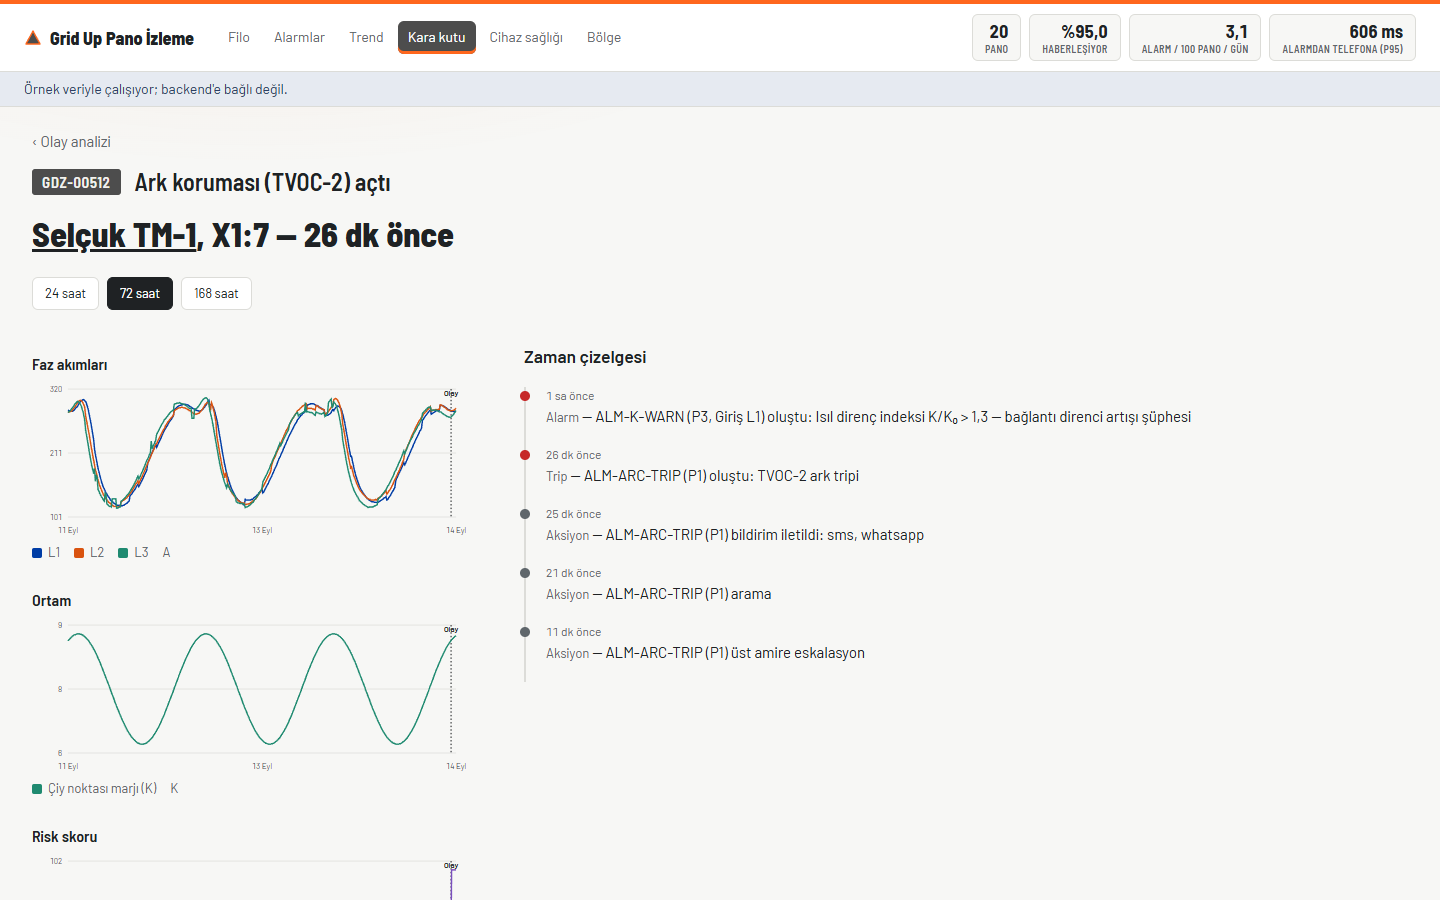
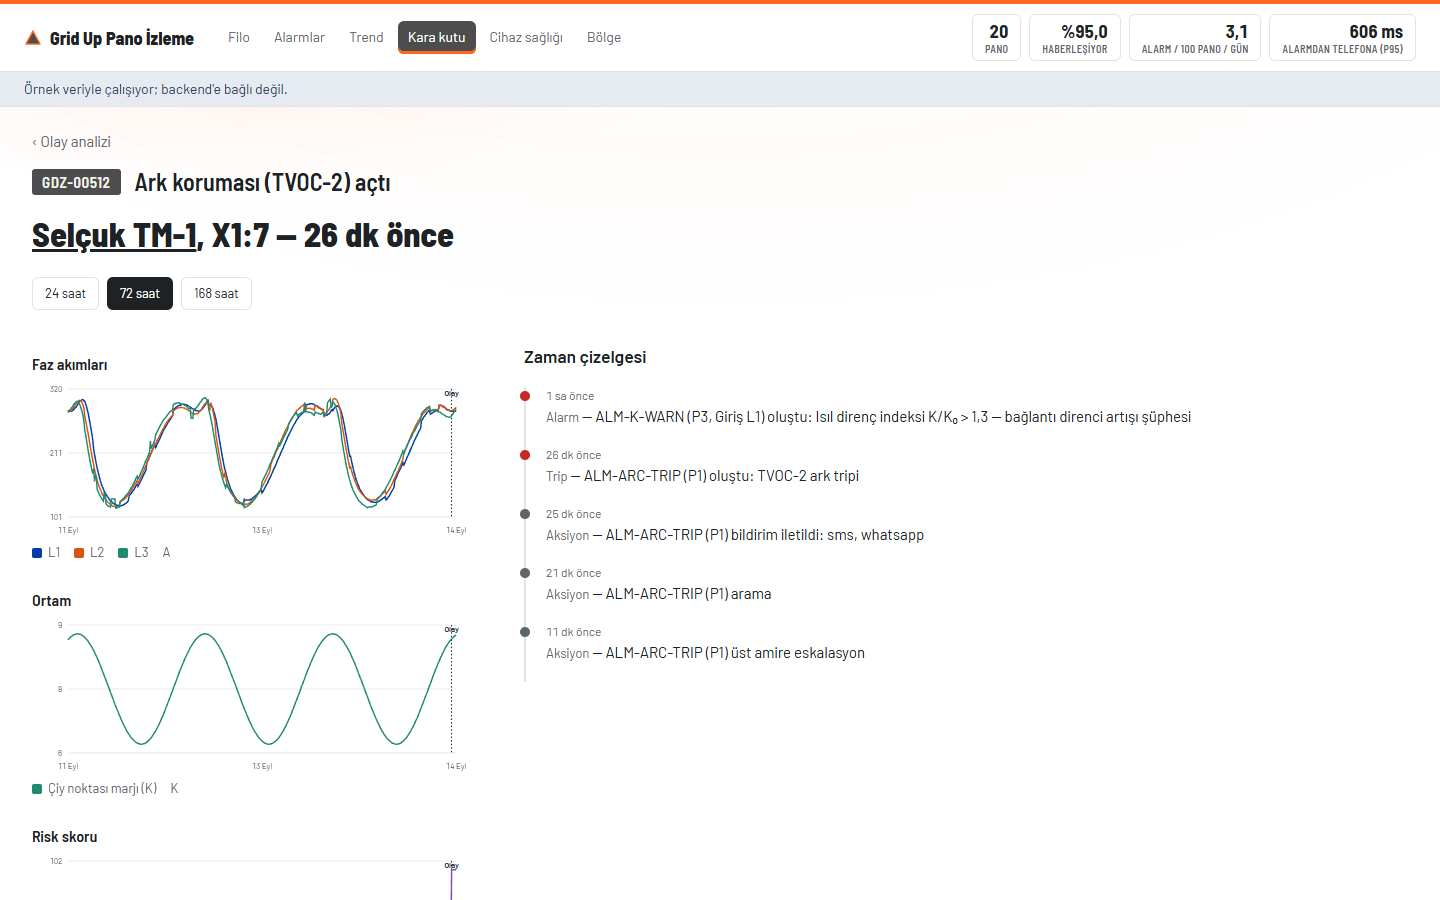
style(frontend): zemin tam beyaza cekildi, karsilastirma Artifact'i senkronize edildi
Kullanici: "arkaplanlarda hala o grimsi arkaplan var artifactta da
oyle oralari istedigim gibi beyaz + turuncu detaylar yapmamissin."

Iki kok neden:
1. --bg (#F7F7F5) --surface (tam beyaz) yaninda hala grimsi
   okunuyordu -> --bg de #FFFFFF'e cekildi (theme.css). Kartlar
   artik yalnizca kenarlik+golgeyle ayrisiyor. Turuncu parilti iki
   katmana cikarildi (yakin+belirgin / genis+soluk) ki tam beyazda
   kaybolmasin.
2. Karsilastirma Artifact'inin KENDI CSS'i hic guncellenmemisti —
   ilk yazildigi andaki eski token degerlerini sabit kopyalamisti,
   uygulamanin theme.css'i sonra degistikce bu kopya senkronize
   edilmemisti. Artifact'in token'lari uygulamayla birebir esitlendi
   (scratchpad, repoya dahil degil), figur/chip kartlarina golge
   eklendi.

assets/ekran/: 8 dosya besinci kez yeniden cekildi (tam beyaz
zemin). Ayrinti ve alinan ders: TASARIM-REVIZYONU.md §12,
STATUS.md §14.

Dogrulama: tsc temiz, 71/71 test yesil, build basarili, 1440px
gorsel kontrol.

diff --git a/frontend/src/theme.css b/frontend/src/theme.css
@@ -6,13 +6,13 @@
    veri alaninda, grafiklerde ve 3D sahnede asla kullanilmaz (plan §3.2).
    Kaynak: admelektrik.com.tr ve gdzelektrik.com.tr hesaplanmis CSS token'lari. */
 :root {
-  --bg: #f7f7f5; /* acik, beyaza yakin zemin — RAL7035 grimsi tondan bilerek uzaklasildi */
+  --bg: #ffffff; /* tam beyaz zemin — grimsi RAL7035 tonu tamamen kaldirildi */
   --surface: #ffffff;
-  --well: #eeeeec;
+  --well: #f4f4f2; /* yalnizca kart ICINDE cukur alanlar icin (ph-track, "Simdi" paneli) */
   --plate: #4d4d4d; /* ADM/GDZ ikincil rengi: kimlik plakalari, birincil dugmeler */
   --ink: #1f2224;
   --dim: #5f666b;
-  --line: #dcdcd8;
+  --line: #e2e2de;
 
   --p1: #c62828;
   --p2: #d9530f; /* marka turuncusundan (#FF671D) kasitli olarak ayristirilmis ton, plan §3.2 */
@@ -55,9 +55,13 @@ body {
 }
 
 body {
-  /* Ust banttan sarkan cok hafif turuncu parilti — marka rengini zemine tasir, ama
-     %8 opaklikta oldugu icin veri alanindaki durum renkleriyle asla yarismaz. */
-  background: radial-gradient(1100px 480px at 18% -120px, rgba(255, 103, 29, 0.08), transparent 60%), var(--bg);
+  /* Tam beyaz zeminde tek gorsel ilgi noktasi: ust banttan sarkan turuncu parilti.
+     Opakligi dusuk kalir (durum renkleriyle yarismaz) ama beyaz zeminde gorunur kalacak
+     kadar da guclu — ikinci, daha genis ve soluk bir katman ekrana yayilir. */
+  background:
+    radial-gradient(900px 420px at 16% -80px, rgba(255, 103, 29, 0.14), transparent 65%),
+    radial-gradient(1600px 900px at 50% -300px, rgba(255, 103, 29, 0.05), transparent 70%),
+    var(--bg);
   color: var(--ink);
   font: 15px/1.45 var(--sans);
   -webkit-font-smoothing: antialiased;

diff --git a/STATUS.md b/STATUS.md
@@ -9,8 +9,28 @@
 > PLAN.md'de yalnızca kutucuk işaretleme ve "Günlük Kayıt" satırı ekleme yapılır (kural: ortak dosya).
 > Her önemli adımdan sonra bu dosya güncellenir. Dal: `berke/frontend` (origin'e push edildi).
 
-**Son güncelleme:** 14 Eylül 2026 akşam (zemin açıldı, tek font ailesine geçildi, §13).
-**Son commit:** Zemin RAL7035'ten beyaza yakın tona geçti + tek font ailesi (Nunito kaldırıldı).
+**Son güncelleme:** 14 Eylül 2026 akşam (zemin tam beyaza çekildi + Artifact senkronize edildi, §14).
+**Son commit:** `--bg` tam beyaz (`#FFFFFF`), turuncu parıltı güçlendirildi, karşılaştırma
+Artifact'ının kendi bayat CSS'i düzeltildi.
+
+## 14. Oturum 6 devamı — "hâlâ grimsi": iki kök neden
+
+Kullanıcı §13'ün hemen ardından: "arkaplanlarda hala o grimsi arkaplan var artifactta da öyle
+oraları istediğim gibi beyaz + turuncu detaylar yapmamışsın."
+
+1. `--bg` (`#F7F7F5`) yeterince beyaz değildi, `--surface` (tam beyaz) yanında hâlâ grimsi
+   okunuyordu → `--bg` de `#FFFFFF`'e çekildi; kartlar artık yalnızca kenarlık+gölgeyle ayrışıyor.
+   Turuncu parıltı iki katmana çıkarıldı (yakın+belirgin / geniş+soluk) ki tam beyazda kaybolmasın.
+2. **Karşılaştırma Artifact'ının kendi CSS'i hiç güncellenmemişti** — ilk yazıldığı andaki eski
+   token değerlerini (`#e4e5e2` vb.) sabit kopyalamıştı, uygulamanın `theme.css`'i sonra
+   değiştikçe bu kopya senkronize edilmemişti. Bu yüzden "artifactta da öyle" haklı bir tespitti.
+   Artifact'ın token'ları uygulamayla birebir eşitlendi, figür/chip kartlarına gölge eklendi.
+
+Ayrıntı ve alınan ders: `frontend/TASARIM-REVIZYONU.md` §12. Doğrulama: tsc temiz, 71/71 test
+yeşil, build başarılı, 1440px görsel kontrol. `assets/ekran/`'daki 8 dosya beşinci kez yeniden
+çekildi, Artifact tekrar yayınlandı (v4).
+
+## 13. Oturum 6 devamı — zemin ve tipografi: tek standart
 
 ## 13. Oturum 6 devamı — zemin ve tipografi: tek standart
 

diff --git a/frontend/TASARIM-REVIZYONU.md b/frontend/TASARIM-REVIZYONU.md
@@ -333,6 +333,28 @@ standarttan ilerleyelim."
   Alarm konsolu 1440px ve 390px'de görsel + konsol kontrolünden geçti. `assets/ekran/`'daki 8 dosya
   dördüncü kez yeniden çekildi; önce/sonra karşılaştırma Artifact'ı güncellendi.
 
+## 12. Düzeltme: "hâlâ grimsi" — iki kök neden (aynı oturum, hemen ardından)
+
+Kullanıcı: "arkaplanlarda hala o grimsi arkaplan var artifactta da öyle oraları istediğim gibi
+beyaz + turuncu detaylar yapmamışsın." İki ayrı kök neden bulundu:
+
+1. **Uygulamada `--bg` hâlâ beyazdan belirgin uzaktı.** §11'deki `#F7F7F5` yeterince beyaz
+   değildi — `--surface` (kartlar) tam beyazken `--bg` (sayfa zemini) hafif farklı kaldığı için
+   yan yana durunca "grimsi" okunuyordu. Düzeltme: `--bg` de tam beyaza (`#FFFFFF`) çekildi;
+   kartlar artık yalnızca kenarlık + gölge ile ayrışıyor (renk farkıyla değil). Turuncu parıltı
+   iki katmana çıkarıldı (üstte belirgin bir odak + altta geniş ve çok soluk bir yayılma) ki tam
+   beyaz zeminde görünür kalsın.
+2. **Karşılaştırma Artifact'ının KENDİ CSS'i hiç güncellenmemişti.** O sayfa, ilk yazıldığı anda
+   (§ kullanıcıya ilk gönderildiğinde) uygulamanın O ANKİ token'larını elle kopyalamıştı
+   (`--bg:#e4e5e2` vb.). Uygulamanın kendi `theme.css`'i sonraki turlarda değiştikçe, Artifact'ın
+   kopyası GÜNCELLENMEDİ — bu yüzden kullanıcı "artifactta da öyle" dedi, haklı olarak. Düzeltme:
+   Artifact'ın `:root` token'ları uygulamanın güncel `theme.css`'iyle birebir eşitlendi ve figür/
+   chip kartlarına da gölge eklendi (onlar da beyaz zeminde beyazdı, ayrışmıyordu).
+
+**Ders:** Bir HTML raporu/Artifact'ı uygulamanın tasarım sistemini "an itibarıyla" kopyalayarak
+yazmak, sistem sonra değiştiğinde sessizce bayatlıyor. Böyle bir rapor tekrar yayınlanacaksa,
+kaynak token'ların o anki halini yeniden okuyup senkronize etmek gerekiyor.
+
 ---
 
 ## Kaynaklar
